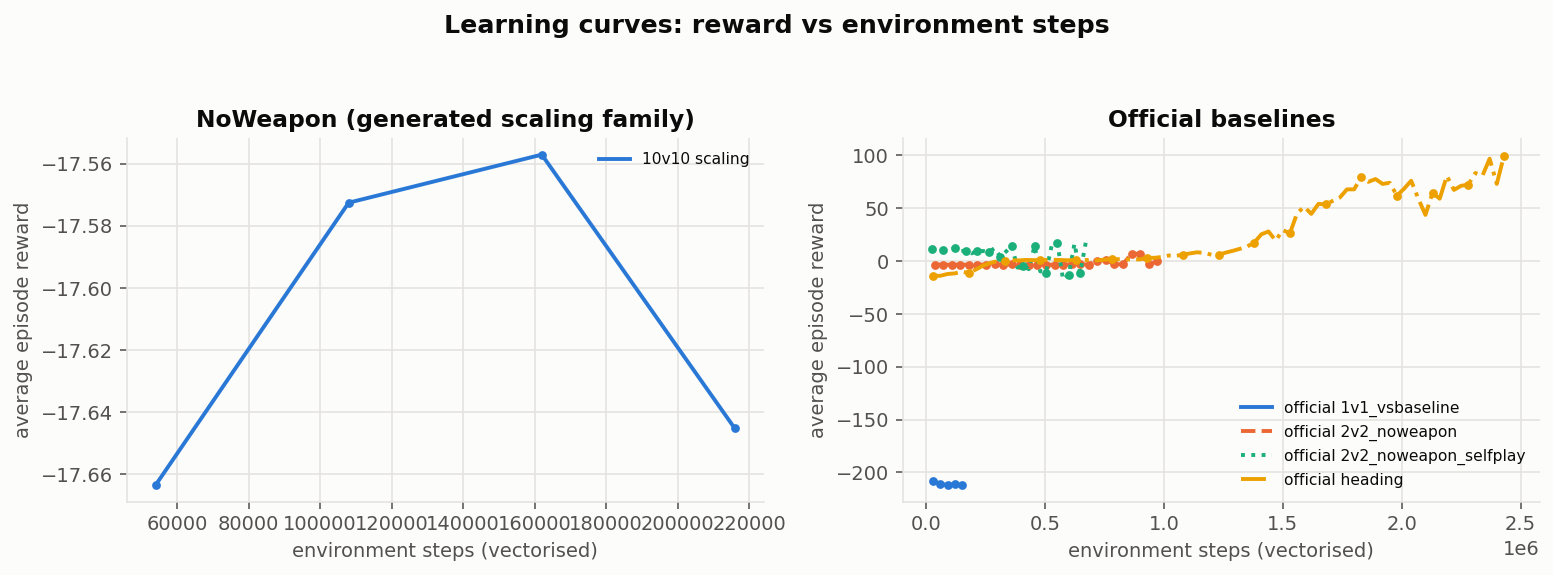
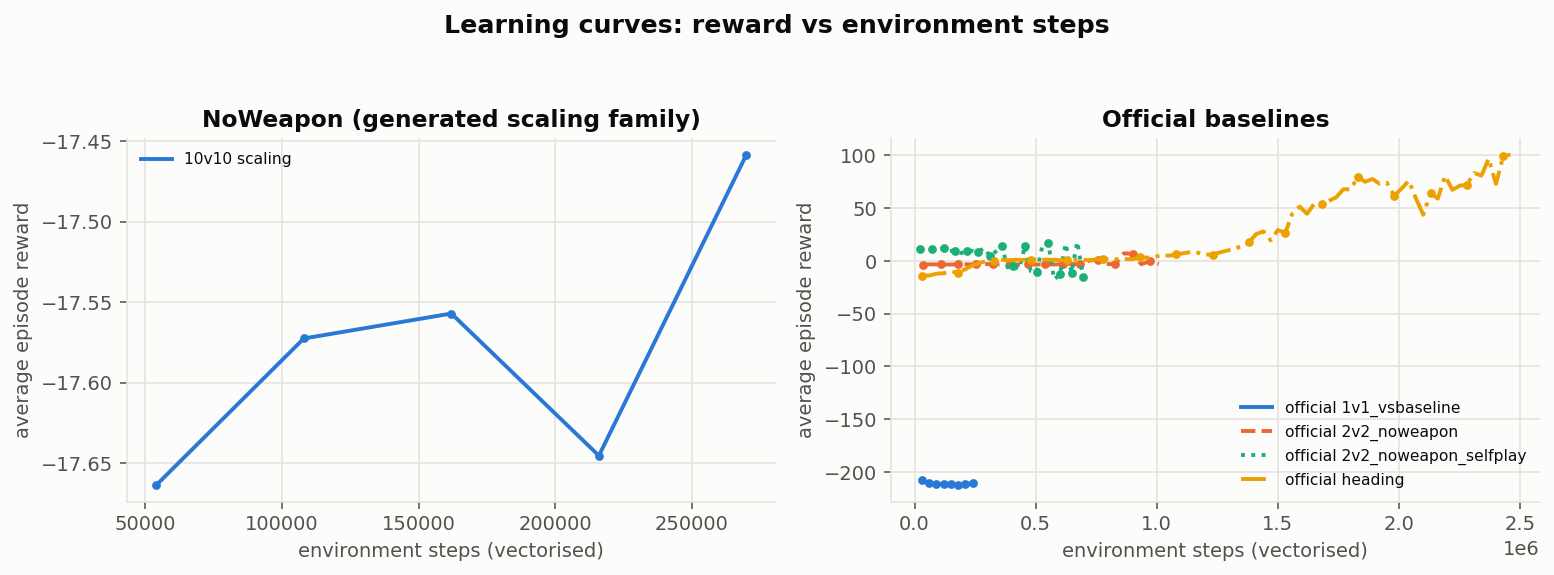
功能：遇到真实失败就提前退出的 watchdog 循环
长时间安静的监控循环不应同时是长时间盲目的。watchdog 每约 9.5 分钟重复一次 sweep，但以下三件事之一发生时会立即退出：实验日志里出现未处理（非 timeout）的 traceback、队列台账仍显示未完成作业却没有训练进程存活、或空闲磁盘低于 5 GB。区分 timeout 的 KeyboardInterrupt 与真实 traceback 很重要，因为每个作业都被 `timeout -s INT` 刻意限时，正常完成的作业按设计就以 KeyboardInterrupt 结束。

diff --git a/experiments/2026-10-04-night/metrics/report_tables.md b/experiments/2026-10-04-night/metrics/report_tables.md
@@ -6,12 +6,12 @@
 
 | 实验 | 状态 | steps 完成/计划 | FPS | 训练 reward 首→末 | eval reward | checkpoint |
 |---|---|---|---|---|---|---|
-| `official_1v1_vsbaseline` | running (time-capped) | 150000/100000000 | 348 | -208.2 → -211.9 | - | yes |
-| `official_2v2_noweapon` | running (time-capped) | 972000/100000000 | 209 | -3.525 → -0.2723 | -74.851 | yes |
-| `official_2v2_noweapon_selfplay` | running (time-capped) | 672000/100000000 | 153 | 11.16 → 18.13 | -6.5831 | yes |
+| `official_1v1_vsbaseline` | running (time-capped) | 240000/100000000 | 346 | -208.2 → -210.6 | - | yes |
+| `official_2v2_noweapon` | running (time-capped) | 1008000/100000000 | 209 | -3.525 → -2.993 | -119.03 | yes |
+| `official_2v2_noweapon_selfplay` | running (time-capped) | 720000/100000000 | 153 | 11.16 → -11.9 | 25.624 | yes |
 | `official_heading` | **CRASHED** | 2460000/100000000 | 590 | -13.98 → 100.6 | - | yes |
-| `scaling_10v10_noweapon` | running (time-capped) | 216000/900000 | 55 | -17.66 → -17.65 | -129.76 | yes |
-| `scaling_3v3_noweapon_s1` | running (time-capped) | 660000/900000 | 159 | -5.435 → -1.108 | 21.429 | yes |
+| `scaling_10v10_noweapon` | running (time-capped) | 270000/900000 | 57 | -17.66 → -17.46 | -134.56 | yes |
+| `scaling_3v3_noweapon_s1` | running (time-capped) | 690000/900000 | 159 | -5.435 → -0.6657 | 13.721 | yes |
 
 ## B. Scaling 对比表（含 wall-clock 归一化）
 
@@ -19,14 +19,14 @@ wrote /root/autodl-tmp/SEU-SRTP/experiments/2026-10-04-night/metrics/scaling_tab
 
 | scale | variant | agents | obs | share_obs | actor_p | critic_p | thr | seed | FPS | s/vec-step | s/rollout-ep | agent-steps/s | ag-steps/s/thr | steps | eps | rew_first | rew_last | slope | eval_rew | value_loss | critic_gn | entropy | NaN? | learnable? |
 |---|---|---|---|---|---|---|---|---|---|---|---|---|---|---|---|---|---|---|---|---|---|---|---|---|
-| 3v3 | noweapon | 6 | 39 | 234 | 156427 | 180097 | 10 | 1 | 159 | 0.0629 | 188.7 | 954 | 95.4 | 660000 | 22 | -5.43 | -1.11 | -0.0564 | 21.4 | 1.21 | 15.5 | -0.000606 | no | flat/declining |
-| 10v10 | noweapon | 20 | 123 | 2460 | 167179 | 465025 | 18 | 0 | 55 | 0.327 | 981.8 | 1100 | 61.1 | 216000 | 4 | -17.7 | -17.6 | - | -130 | 70.5 | 47.2 | -0.000351 | no | ? |
+| 3v3 | noweapon | 6 | 39 | 234 | 156427 | 180097 | 10 | 1 | 159 | 0.0629 | 188.7 | 954 | 95.4 | 690000 | 23 | -5.43 | -0.666 | -0.0655 | 13.7 | 1.18 | 12.6 | -0.000604 | no | flat/declining |
+| 10v10 | noweapon | 20 | 123 | 2460 | 167179 | 465025 | 18 | 0 | 57 | 0.316 | 947.4 | 1140 | 63.3 | 270000 | 5 | -17.7 | -17.5 | - | -135 | 69.1 | 47.2 | -0.000351 | no | ? |
 
-host peaks during the whole night: CPU 48.0/48 cores, RAM 60.1 GB, VRAM 1842 MB (single job uses <1.5 GB)
+host peaks during the whole night: CPU 48.0/48 cores, RAM 62.3 GB, VRAM 1842 MB (single job uses <1.5 GB)
 
 ## C. 归一化后的 critic 对比
 
-wrote /root/autodl-tmp/SEU-SRTP/experiments/2026-10-04-night/metrics/normalized_scaling.csv (53 rows)
+wrote /root/autodl-tmp/SEU-SRTP/experiments/2026-10-04-night/metrics/normalized_scaling.csv (56 rows)
 
 === matched training stage (episode index), hierarchical NoWeapon family ===
   N  ep    reward    rew/N        vl    vl/N²  critic_gn    gn/N  experiment
@@ -44,13 +44,14 @@ wrote /root/autodl-tmp/SEU-SRTP/experiments/2026-10-04-night/metrics/normalized_
  10   1    -17.57    -1.76    72.391    0.724      46.94    4.69  scaling_10v10_noweapon
  10   2    -17.56    -1.76    73.277    0.733      46.92    4.69  scaling_10v10_noweapon
  10   3    -17.65    -1.76    70.535    0.705      47.18    4.72  scaling_10v10_noweapon
+ 10   4    -17.46    -1.75    69.102    0.691      47.23    4.72  scaling_10v10_noweapon
 
 ## D. 逐实验资源占用（峰值）
 
 | 实验 | 进程数 | 峰值 CPU% | 峰值 CPU 核 | 峰值 RSS | GPU | 该 GPU 峰值显存 |
 |---|---|---|---|---|---|---|
-| `official_1v1_vsbaseline` | 12 | 472% | 4.7 | 5.13 GB | 0 | 1315 MB |
-| `official_2v2_noweapon` | 14 | 668% | 6.7 | 5.83 GB | 1 | 1405 MB |
+| `official_1v1_vsbaseline` | 12 | 472% | 4.7 | 5.16 GB | 0 | 1315 MB |
+| `official_2v2_noweapon` | 14 | 669% | 6.7 | 5.83 GB | 1 | 1405 MB |
 | `official_2v2_noweapon_selfplay` | 10 | 414% | 4.1 | 4.20 GB | 0 | 1559 MB |
 | `official_heading` | 12 | 326% | 3.3 | 4.75 GB | 0 | 1559 MB |
 | `scaling_10v10_noweapon` | 20 | 1218% | 12.2 | 13.83 GB | 2 | 994 MB |

diff --git a/experiments/2026-10-04-night/status/running_jobs.md b/experiments/2026-10-04-night/status/running_jobs.md
@@ -1,6 +1,6 @@
 # Running Jobs Snapshot
 
-Generated: 2026-10-04T03:36:46+08:00
+Generated: 2026-10-04T03:40:47+08:00
 
 ## tmux sessions
 
@@ -41,10 +41,10 @@ queue started gpu=2 at 2026-10-04T02:19:02+08:00
 
 | experiment | n_procs | total_cpu_pct | total_rss_gb |
 |---|---|---|---|
-| official_1v1_vsbaseline | 12 | 472% | 5.13 |
-| official_2v2_noweapon | 14 | 668% | 5.80 |
+| official_1v1_vsbaseline | 12 | 467% | 5.16 |
+| official_2v2_noweapon | 14 | 669% | 5.80 |
 | official_2v2_noweapon_selfplay | 10 | 414% | 4.19 |
-| scaling_10v10_noweapon | 20 | 1191% | 13.83 |
+| scaling_10v10_noweapon | 20 | 1155% | 13.83 |
 | scaling_3v3_noweapon_s1 | 12 | 620% | 5.21 |
 
 ## Progress (from logs)
@@ -55,28 +55,28 @@ queue started gpu=2 at 2026-10-04T02:19:02+08:00
 | SMOKE_2v2 | 12000 | 240000 | 80. | -3.506592273712158 | -290.6607 |
 | SMOKE_heading | 36000 | 240000 | 234. | -13.130021528764205 | - |
 | SMOKE_vsbaseline | 24000 | 240000 | 145. | -210.46957859848484 | - |
-| official_1v1_vsbaseline | 150000 | 100000000 | 348. | -211.94630142405063 | - |
-| official_2v2_noweapon | 972000 | 100000000 | 209. | -0.27233338356018066 | -127.80173 |
-| official_2v2_noweapon_selfplay | 672000 | 100000000 | 153. | 18.130230494907924 | -6.583122 |
+| official_1v1_vsbaseline | 240000 | 100000000 | 346. | -210.61115506329114 | - |
+| official_2v2_noweapon | 1008000 | 100000000 | 209. | -2.9926106135050454 | -119.02939 |
+| official_2v2_noweapon_selfplay | 720000 | 100000000 | 153. | -11.902143205915179 | 25.624353 |
 | official_heading | 2460000 | 100000000 | 590. | 100.61372375488281 | - |
-| scaling_10v10_noweapon | 216000 | 900000 | 55. | -17.645338270399307 | -129.76001 |
-| scaling_3v3_noweapon_s1 | 660000 | 900000 | 159. | -1.1083086649576823 | 21.429422 |
+| scaling_10v10_noweapon | 270000 | 900000 | 57. | -17.45848388671875 | -134.56442 |
+| scaling_3v3_noweapon_s1 | 690000 | 900000 | 159. | -0.6657419840494792 | 13.721066 |
 
 ## GPUs
 
 ```
 index, utilization.gpu [%], memory.used [MiB], temperature.gpu
-0, 9 %, 1315 MiB, 34
-1, 4 %, 1405 MiB, 36
-2, 0 %, 994 MiB, 35
+0, 11 %, 1315 MiB, 34
+1, 13 %, 1405 MiB, 36
+2, 1 %, 994 MiB, 35
 ```
 
 ## Last system samples
 
 ```
-2026-10-04T03:35:39+08:00,41.78,39.96,22,57.5,1007.5,5,19,1315,7,1405,0,994
-2026-10-04T03:35:55+08:00,42.13,40.13,22,57.5,1007.5,5,7,1315,4,1405,1,994
-2026-10-04T03:36:11+08:00,42.75,40.36,22,57.5,1007.5,5,18,1315,3,1405,1,994
-2026-10-04T03:36:27+08:00,42.82,40.47,18,57.5,1007.5,5,9,1315,8,1405,0,994
-2026-10-04T03:36:43+08:00,41.48,40.27,23,57.9,1007.5,5,3,1315,7,1405,0,994
+2026-10-04T03:39:41+08:00,29.11,35.41,15,58.1,1007.5,5,11,1315,9,1405,0,994
+2026-10-04T03:39:57+08:00,31.99,35.75,21,58.1,1007.5,5,10,1315,2,1405,0,994
+2026-10-04T03:40:13+08:00,37.02,36.72,20,58.1,1007.5,5,16,1315,10,1405,0,994
+2026-10-04T03:40:29+08:00,38.39,37.06,21,58.0,1007.5,5,10,1315,3,1405,0,994
+2026-10-04T03:40:45+08:00,39.45,37.39,21,58.0,1007.5,5,11,1315,4,1405,0,994
 ```
